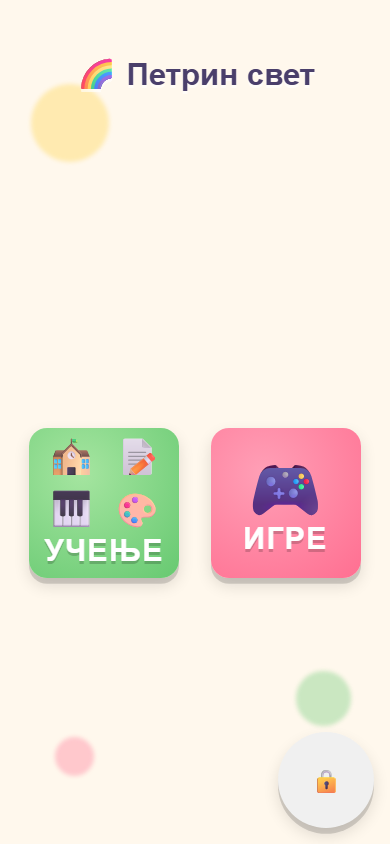
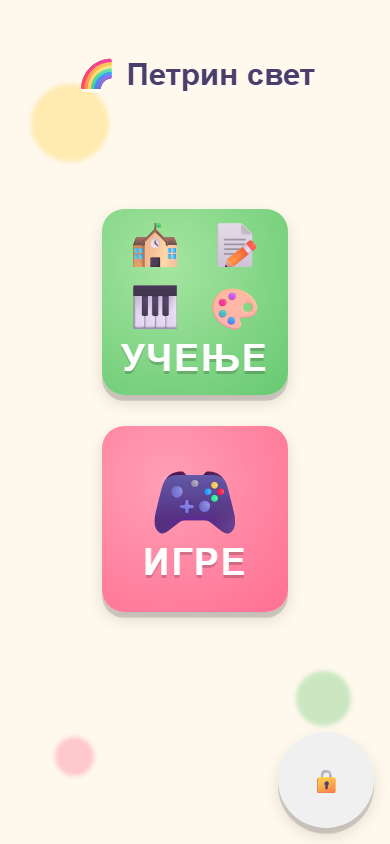
task 237 (V20): hub vertical rhythm - phone portrait stacks and enlarges the two group tiles, sub-hub grids clear their titles - VERIFY-first found phone portrait the only bad screen: a 335px (39.7%) empty band between the title and the two group tiles, which sat at their 150px clamp floor (clamp(15

Changed region(s): [[0.0615, 0.2464, 0.9231, 0.7393]]

diff --git a/tools/hub_smoke.js b/tools/hub_smoke.js
@@ -247,6 +247,112 @@ const ALL_LIVE_ROUTES = allHubRoutes().filter(r => !RETIRED_ROUTES.some(d => d.r
     !fs.readFileSync(path.join(pagesDir, p + '.html'), 'utf8').includes('class="back-btn ps-back"'));
   check('V7.1: adopted pages carry .ps-back on their back controls', notAdopted.length === 0, notAdopted.join(','));
 
+  /* V20 (spec §38): phone portrait is the hub screen with the dead space — the two
+   * group tiles used to sit at their 150px clamp floor (34vmin = 132.6 < 150) under
+   * a 22vh offset that fought the centring flex, so the child's entire navigation
+   * occupied 166 of 844px with a 335px (40%) void above it. These checks assert the
+   * LIVE geometry at real viewports (readiness-wait on the reflow, never a sleep):
+   * the cluster is stacked and enlarged on a phone, the void is small, the pair
+   * still clears the title and the parent lock on a SHORT phone (the 22vh cap is
+   * what buys that clearance — drop it and a 40vh cluster collides), the rule does
+   * not leak into landscape, and the sub-hub grids clear their titles by a real
+   * gap instead of the old flat 24vh (which left 116–136px of dead band while the
+   * learning grid scrolled off the bottom). */
+  const measureLanding = async (width, height) => {
+    await h.c.send('Emulation.setDeviceMetricsOverride', { width, height, deviceScaleFactor: 1, mobile: false });
+    await waitForActive('hub');
+    /* Readiness = the reflow settled (two identical reads of a sized tile with the
+     * landing active), never a fixed sleep and never the assertion itself. */
+    let prev = '', stable = 0;
+    for (let i = 0; i < 25 && stable < 2; i++) {
+      const now = await h.evalv(`(function(){
+        var t = document.querySelector('.hub-tile'); if (!t) return '';
+        var r = t.getBoundingClientRect();
+        return (document.querySelector('.screen.active')||{}).id + ':' + Math.round(r.top) + ':' + Math.round(r.height);
+      })()`);
+      const m = /^hub:-?\d+:(\d+)$/.exec(now);
+      stable = (m && +m[1] > 0 && now === prev) ? stable + 1 : 0;
+      prev = now;
+      if (stable < 2) await sleep(50);
+    }
+    return JSON.parse(await h.evalv(`JSON.stringify((function(){
+      var R = function(s){ var e = document.querySelector(s); if (!e) return null;
+        var r = e.getBoundingClientRect();
+        return { t: r.top, b: r.bottom, l: r.left, r: r.right, w: r.width, h: r.height }; };
+      var title = R('#hub-title'), tiles = R('.hub-tiles'), learn = R('.tile-learning'),
+          games = R('.tile-games'), lock = R('[data-go="game-parent"]');
+      var vh = innerHeight;
+      var bands = [tiles.t - title.b,
+                   lock ? lock.t - tiles.b : vh - tiles.b,
+                   lock ? vh - lock.b : 0];
+      return { vw: innerWidth, vh: vh, title: title, tiles: tiles, learn: learn,
+               games: games, lock: lock, biggestBand: Math.max.apply(null, bands) };
+    })())`));
+  };
+  const hits2 = (a, b) => Math.max(0, Math.min(a.r, b.r) - Math.max(a.l, b.l)) *
+                          Math.max(0, Math.min(a.b, b.b) - Math.max(a.t, b.t));
+
+  const V20P = await measureLanding(390, 844);
+  check('V20: phone portrait stacks the two group tiles into one tall cluster',
+    V20P.tiles.h >= 2 * V20P.learn.h - 8 && V20P.games.t > V20P.learn.b,
+    JSON.stringify({ tiles: Math.round(V20P.tiles.h), tile: Math.round(V20P.learn.h), gamesTop: Math.round(V20P.games.t) }));
+  check('V20: phone portrait tiles are enlarged past the old 150px clamp floor',
+    V20P.learn.w >= 180 && Math.abs(V20P.learn.w - V20P.games.w) < 1,
+    JSON.stringify({ learn: Math.round(V20P.learn.w), games: Math.round(V20P.games.w) }));
+  check('V20: phone portrait keeps a calm rhythm (no empty band above 30% of the screen)',
+    V20P.biggestBand <= 0.3 * V20P.vh,
+    'biggestBand=' + Math.round(V20P.biggestBand) + '/' + V20P.vh + ' (' + Math.round(1000 * V20P.biggestBand / V20P.vh) / 10 + '%)');
+
+  // The 22vh cap is a clearance guarantee, not a size preference: on a short phone
+  // the stacked pair must still fit between the title box and the 96px parent lock.
+  const V20S = await measureLanding(360, 640);
+  const clearOf = m => hits2(m.tiles, m.title) === 0 && hits2(m.tiles, m.lock) === 0 &&
+    m.tiles.t - m.title.b >= 8 && m.lock.t - m.tiles.b >= 8;
+  check('V20: the enlarged portrait cluster clears the title and the parent lock (390x844 and 360x640)',
+    clearOf(V20P) && clearOf(V20S),
+    JSON.stringify({ p390: [Math.round(V20P.tiles.t - V20P.title.b), Math.round(V20P.lock.t - V20P.tiles.b)],
+                     s360: [Math.round(V20S.tiles.t - V20S.title.b), Math.round(V20S.lock.t - V20S.tiles.b)],
+                     hit360: hits2(V20S.tiles, V20S.title) + '/' + hits2(V20S.tiles, V20S.lock) }));
+
+  // Sub-hub rhythm: the old flat `margin:24vh` left 116px (390x844) / 136px
+  // (820x1180) / 70px (1024x800) of dead band between the sub-hub title and the
+  // first row while the learning grid scrolled. The replacement tracks the title's
+  // own box, so the gap is a constant ~45px on every tall viewport.
+  const subGaps = [];
+  for (const [vw, vh] of [[390, 844], [820, 1180], [1024, 800]]) {
+    await h.c.send('Emulation.setDeviceMetricsOverride', { width: vw, height: vh, deviceScaleFactor: 1, mobile: false });
+    await waitForActive('hub');
+    await h.evalv(`window.goTo('hub-games')`);
+    let ready2 = false;
+    for (let i = 0; i < 25 && !ready2; i++) {
+      ready2 = await h.evalv(`(function(){
+        var a = document.querySelector('.screen.active'); if (!a || a.id !== 'hub-games') return false;
+        var g = a.querySelector('.hub-grid'); if (!g) return false;
+        var r = g.getBoundingClientRect();
+        return r.height > 0 && r.top > 0;
+      })()`);
+      if (!ready2) await sleep(50);
+    }
+    const gap = await h.evalv(`(function(){
+      var a = document.querySelector('.screen.active');
+      var g = a.querySelector('.hub-grid').getBoundingClientRect();
+      var t = a.querySelector('.hub-sub-title').getBoundingClientRect();
+      return Math.round(g.top - t.bottom);
+    })()`);
+    subGaps.push(vw + 'x' + vh + '=' + gap);
+  }
+  const gapsOk = subGaps.every(s => { const g = +s.split('=')[1]; return g >= 24 && g <= 64; });
+  check('V20: sub-hub grids clear their titles by a real gap at every tall viewport (24-64px)', gapsOk, subGaps.join(' '));
+  await h.evalv(`window.goTo('hub')`);
+  await waitForActive('hub');
+
+  // Scoping: the portrait block must not reach landscape. 844x390 keeps the
+  // side-by-side pair (and the task-105 games guard below keeps pinning the grid).
+  const V20L = await measureLanding(844, 390);
+  check('V20: the portrait rule does not leak into landscape (tiles stay side-by-side)',
+    Math.abs(V20L.learn.t - V20L.games.t) < 2 && V20L.learn.h <= 1.3 * V20L.learn.w && V20L.learn.w >= 96,
+    JSON.stringify({ learnTop: Math.round(V20L.learn.t), gamesTop: Math.round(V20L.games.t), w: Math.round(V20L.learn.w), h: Math.round(V20L.learn.h) }));
+
   // Regression guard (task 105): on a short landscape viewport the 24vh grid
   // margin + 2 columns put the last row below the fold, so the racing3d button
   // was only reachable after navigating into and back out of a game.

diff --git a/docs/index.html b/docs/index.html
@@ -116,7 +116,23 @@
   }
   /* sub-hub screens: grid scrolls from the top, clears the title + back button */
   #hub-games, #hub-learning{ justify-content:flex-start; }
-  #hub-games .hub-grid, #hub-learning .hub-grid{ margin: 24vh auto 0; }
+  /* V20 (§38): a flat 24vh left a 116px dead band under the sub-hub title on a
+     phone (136px on a tablet) while the learning grid scrolled off the bottom.
+     The title sits at top:6% but its box is vmin-sized, so the offset tracks
+     BOTH (6vh + the ~10vmin line box + a constant gap) instead of guessing. */
+  #hub-games .hub-grid, #hub-learning .hub-grid{ margin: calc(6vh + 10vmin + 40px) auto 0; }
+  /* V20 (§38) phone portrait: the two group tiles sat at their 150px clamp floor
+     (34vmin = 132.6 < 150) under a 22vh offset, leaving a 335px - 40% - void
+     between the title and the only two controls on the screen. Stack the pair and
+     size it from the height the phone has; 22vh is the cap that keeps short phones
+     clear of the title and the parent lock. Landscape/tablet keep the row. */
+  @media (orientation:portrait) and (max-width:600px){
+    .hub-tiles{ flex-direction:column; margin:0 auto; }
+    .hub-tile{ width:clamp(150px, 22vh, 240px); height:clamp(150px, 22vh, 240px); }
+    .hub-tile .tile-emoji{ font-size: clamp(56px, 21vmin, 160px); }
+    .hub-tile .tile-emojis{ font-size: clamp(30px, 11.5vmin, 88px); }
+    .hub-tile .tile-label{ font-size: clamp(30px, 9.5vmin, 72px); }
+  }
   /* Short viewports (landscape phones): a 24vh top margin plus only 2 columns
      pushed the last row below the fold, which hid the racing3d button entirely
      (measured: bottom=639 in a 390px viewport). Three narrower columns fit. */

diff --git a/game/index.html b/game/index.html
@@ -116,7 +116,23 @@
   }
   /* sub-hub screens: grid scrolls from the top, clears the title + back button */
   #hub-games, #hub-learning{ justify-content:flex-start; }
-  #hub-games .hub-grid, #hub-learning .hub-grid{ margin: 24vh auto 0; }
+  /* V20 (§38): a flat 24vh left a 116px dead band under the sub-hub title on a
+     phone (136px on a tablet) while the learning grid scrolled off the bottom.
+     The title sits at top:6% but its box is vmin-sized, so the offset tracks
+     BOTH (6vh + the ~10vmin line box + a constant gap) instead of guessing. */
+  #hub-games .hub-grid, #hub-learning .hub-grid{ margin: calc(6vh + 10vmin + 40px) auto 0; }
+  /* V20 (§38) phone portrait: the two group tiles sat at their 150px clamp floor
+     (34vmin = 132.6 < 150) under a 22vh offset, leaving a 335px - 40% - void
+     between the title and the only two controls on the screen. Stack the pair and
+     size it from the height the phone has; 22vh is the cap that keeps short phones
+     clear of the title and the parent lock. Landscape/tablet keep the row. */
+  @media (orientation:portrait) and (max-width:600px){
+    .hub-tiles{ flex-direction:column; margin:0 auto; }
+    .hub-tile{ width:clamp(150px, 22vh, 240px); height:clamp(150px, 22vh, 240px); }
+    .hub-tile .tile-emoji{ font-size: clamp(56px, 21vmin, 160px); }
+    .hub-tile .tile-emojis{ font-size: clamp(30px, 11.5vmin, 88px); }
+    .hub-tile .tile-label{ font-size: clamp(30px, 9.5vmin, 72px); }
+  }
   /* Short viewports (landscape phones): a 24vh top margin plus only 2 columns
      pushed the last row below the fold, which hid the racing3d button entirely
      (measured: bottom=639 in a 390px viewport). Three narrower columns fit. */

diff --git a/PROJECT_TASKS.md b/PROJECT_TASKS.md
@@ -17,6 +17,11 @@ Important: The AI assistant and any contributor must read this file first when s
 
 ## Active tasks (NEW / IN PROGRESS)
 
+- 237. DONE — Visual/UX plan **V20** (Phase 9–20 — Page-specific, spec §38): **Hub — vertical rhythm, enlarge/relocate the useful activity clusters, preserve calmness, keep parent/technical utilities out of the child hub.** "Do not fill space with decorative noise." VERIFY-first, then smallest correct fix + non-vacuous guards. (Started 2026-10-12, DONE 2026-10-12, Ponytail Lazy Dev.)
+    - **VERIFY-first:** probed the live hub at 390×844 / 844×390 / 820×1180 / 1024×800. **Phone portrait was the only bad screen** — exactly what §38 says: a **335px (39.7%) empty band** between `#hub-title` (bottom 93) and `.hub-tiles` (top 428), with the two group tiles stuck at their **150px clamp floor** (`game/index.html:97` `clamp(150px,34vmin,320px)` → 34vmin = 132.6 < 150) under a `22vh` offset (`index.html:94`) that fought `.screen{justify-content:center}`; tablet/landscape landings were already balanced (title→tiles vs tiles→bottom ratios 1.15–1.16) and on-curve, so they were left alone. Sub-hubs wasted a **116px** title→grid band at 390×844 and 136px at 820×1180 because `index.html:119` hard-fixed `margin:24vh`, while the learning grid scrolled (scrollH 999 vs 844) and the games grid overflowed even at 1024×800 (192px top margin, scrollH 848 vs 800). **§38's second half needed no fix**: R12 already keeps every parent/technical utility out of the child hub (hub_smoke static guard + landing probe: exactly 2 group tiles + 1 parent lock, no technical ids).
+    - **Fix:** `game/index.html` only, ~8 lines of CSS, no HTML/JS changes, nothing decorative added. (1) **One portrait-only block** (`@media (orientation:portrait) and (max-width:600px)`): the two group tiles stack (`flex-direction:column; margin:0 auto`) and are sized from the height the phone has (`clamp(150px, 22vh, 240px)` — **22vh is the clearance cap**, not a size preference, so short phones stay clear of the title and the 96px parent lock), with the emoji/label fonts scaled to the new tile so the enlarged tiles don't read as empty boxes. Result at 390×844: tile **150→186px**, cluster **166→418px tall**, biggest void **335px→116px (13.8%)**, title/lock clearance 116px/105px (68px/42px at 360×640). (2) The sub-hub top margin `24vh` → **`calc(6vh + 10vmin + 40px)`** — the title sits at `top:6%` but its box is vmin-sized, so the offset now tracks both instead of guessing: uniform **43/46/46px** title→grid gaps at 390×844 / 820×1180 / 1024×800 (games grid no longer overflows at 1024×800; learning scrollH 999→926). The short-landscape `max-height:560px` block is untouched (task-105 guard still green).
+    - **Guards:** `hub_smoke` → **30** checks (was 24) — +6 V20, each measuring the LIVE geometry with a readiness-wait on the reflow (two identical sized reads, never a fixed sleep): portrait tiles are stacked into one tall cluster; portrait tiles are enlarged past the old 150px floor; portrait keeps a calm rhythm (no empty band > 30% of the screen); the enlarged cluster clears the title AND the parent lock at **390×844 and 360×640** (2D box intersection + ≥8px vertical clearance — this is what the 22vh cap buys); the portrait rule does not leak into landscape (844×390 stays side-by-side); sub-hub grids clear their titles by 24–64px at all three tall viewports. **Each negative-tested** via mutation from a pre-mutation temp copy, each producing exactly the targeted red(s), each restored with a hash match (never `git checkout/restore`): whole portrait block removed → 3 red (stacked/enlarged/rhythm, band 336px = the pre-fix measurement reproduced); tile cap `22vh`→`12vh` → 1 red (enlarged); sub-hub `calc()`→`24vh` → 1 red (gap guard, 116/136/70 = the pre-fix measurements reproduced); media condition→`@media all` → 1 red (landscape leak, tiles stacked at 844×390); tile cap `22vh`→`40vh` → 1 red (clearance, overlap only on the 360×640 clause). **Validation:** `hub_smoke` 30/30; `check_fast` 7/7 (and proven non-vacuous: it FAILED on the stale docs/manifest mid-task and named the fix command); axe clean (0 violations) on `/index.html`; `short_landscape_audit` 0 FAIL (hub OK, only the pre-existing advisory WARNs elsewhere); offline E2E **23 games green** (hub tiles still tappable); `validate_offline` 10/10. Screenshots refreshed (`--review=Screenshot_Review --pages=hub --task=237`) — **only `hub_phone-portrait.png` changed; the landscape/tablet PNGs are byte-identical**, which is the scoping proof. **Visual self-review pending (model can't read images — recommend MiMo V2.5 Free on the refreshed `hub_phone-portrait.png`).** Next down the list: V21 (Semantic motion pass).
+
 - 236. DONE — Visual/UX plan **V19** (Phase 9–20 — Page-specific, spec §37 / §43): **Parent visual system — grouped cards, readable labels, progress summaries, expandable details, restrained colour.** "Parent utility can be more information-dense than child UI, but never cryptic." Avoid dense tables, tiny metadata, technical IDs, child-facing toy shadows. VERIFY-first, then smallest correct fix + non-vacuous guards. (Started 2026-10-11, DONE 2026-10-11, Ponytail Lazy Dev.)
     - **VERIFY-first:** probed the live page at 390×844 / 844×390 / 1024×800 — the parent card carried a hard child-facing toy shadow (`rgba(0,0,0,.15) 0px 8px 0px 0px`), the meta pills / progress panel / diagnostics all sat at **11px** with label `opacity:.75` (tiny, dimmed metadata), everything lived in **one undifferentiated card** (no grouping), and the progress values were **comma-joined run-on lists** of titleFor names (no summary). No raw technical ids leaked to the face (`rawIds:[]` — the scope URL already stayed behind the diagnostics disclosure), so §37's technical-id half needed no fix.
     - **Fix:** `game/pages/parent.html` now reads as **three labelled sections** on one soft-shadow card (shared token `--shadow-card`: 12/28 blur, no hard offset): «Статус», «📊 Напредак», «Радње» — flat cream panels with a hairline border, no stacked toy shadows, no `<table>`. Status (Веза / Верзија / Офлајн копија) and progress (Коришћено / Вежбано) are **label→value rows at ≥13px** (`clamp(13px,2.1vmin,16px)`, labels `--plum-soft`, opacity 1 — never dimmed). **Progress is summarised**: «N од 23» up front (count from the registry, Serbian), the game names behind a **closed `<details>`** disclosure; the diagnostics disclosure stays but becomes readable (13px, white block). The «Верзија» / «Офлајн копија» words moved OUT of the value cells into the row keys, so values hold only the fact (`2.0.0`, `спремна`/`није преузета`). Back control adopts the shared **`.ps-back`** chrome (§43) — just `position:fixed` layout stays page-local. **Scroll/centring**: `#app` is now a COLUMN flex with `margin:auto` on the card, so it centres when it fits and the auto margins resolve to zero when it overflows (a row/cross-axis centred child that overflows clips its TOP and stays unreachable even in a scroll container) — this the old `parent-meta`-era card could avoid by being shorter; V19's taller card exposed it. `window.__parentProgress` test hook added (mirrors `__parentGate`) so a smoke can render the summary without reloading.

diff --git a/VISUAL_UX_IMPLEMENTATION_PLAN.md b/VISUAL_UX_IMPLEMENTATION_PLAN.md
@@ -165,7 +165,7 @@ Ordered by the spec's own priority matrix (§55) and Appendix E. Each item is ta
 | **V17** | Shapes: subtle play mat, better shape material, clear selected state. Do not over-design; spatial relationship stays the hero. | **DONE** (2026-10-11, task 234) - VERIFY-first probed 390×844 / 844×390 / 1024×800: `mat:false` at every viewport (no play mat at all), pieces were flat (`background-image:none`, solid colour, only a base lip shadow), and `.piece.dragging` had no picked-up state. `.mat` is now a subtle play mat (radius 30px, 2px soft border, cream gradient, inset shadow, `pointer-events:none`, behind everything - purely visual, never competes with the spatial question); pieces gained subtle material (top-left sheen gradient over inset internal shading + base lip, per-shape colour preserved via `style.backgroundColor` so the CSS gradient layers on top); a picked-up piece has a clear selected state (existing lift + Petrin Glow + raised shadow). Slots, tier system and keyboard flow untouched. `shapes_smoke` 20→25 (+4 guards, each negative-tested by CSS/markup mutation and restored from a hash-checked copy); axe clean; `short_landscape_audit` 0 FAIL (pre-existing advisory WARN kept); offline E2E green; `check_fast` 7/7; screenshots refreshed. |
 | **V18** | Phonics: letter glow, speaker cue, subtle object highlight, immediate success feedback. Never text-heavy; no alphabet wall. | **DONE** (2026-10-11, task 235) — VERIFY-first probed 390×844 / 844×390 / 1024×800: the letter was a bare floating glyph, the only repeat control was a tiny top-right icon, the choices were flat #fff, no visible success reaction. `#phonics-letter` is now an **active tile** (cream gradient, halo, radius 24px, `role="button"`) that itself replays the sound and **blooms while it plays** (`.phonics-letter-live` = Petrin Glow + halo) and **green-settles on a hit** (`.phonics-good`). A new 🔊 **speaker cue** between letter and objects pulses while speaking. Both `.phonics-choice` objects are **gradient tiles** that **light once at round start** (`.phonics-glow-all`, 750ms). A correct tap gives immediate success feedback: green choice ring + green letter + «Браво!». Desktop sizing is now `min-width:800px) and (min-height:600px)` and a dedicated `(max-height:599px)` block keeps letter 128px + cue + choices 128px inside the 844×390 fold. Reduced-motion extended. `phonics_smoke` 19→27 (+8 guards, each negative-tested; two tightened after vacuous first versions — the bloom/green rule regexes now require selector+`box-shadow`, and the fold guard now pins the 128px short-block sizes because flex-shrink hid the old 180px glyph clip). axe clean; `short_landscape_audit` 0 FAIL (pre-existing advisory WARN kept); offline E2E green; `check_fast` 7/7; screenshots refreshed. |
 | **V19** | Parent visual system: grouped cards, readable labels, progress summaries, expandable details, restrained colour. Never a developer dashboard, never child toy shadows, never tiny dense metrics. May begin after V2. | **DONE** (2026-10-11, task 236) — VERIFY-first probed 390×844 / 844×390 / 1024×800: a hard child-facing toy shadow (`0px 8px 0px`), meta pills/progress/diagnostics at 11px with `opacity:.75`, one undifferentiated card, run-on comma progress lists; no raw technical ids in the face (already behind diagnostics). `parent.html` now has **three labelled sections** on one soft-shadow card (token `--shadow-card`) — «Статус», «Напредак», «Радње» — flat panels with a hairline border, labels/values ≥13px never dimmed, progress summarised «N од M» with names behind a closed disclosure, diagnostics readable behind its own disclosure, no `<table>`. The «Верзија»/«Офлајн копија» words became row keys so value cells hold only facts. Back control adopts shared `.ps-back` (§43). `#app` switched to a COLUMN flex with `margin:auto` so the card centres when it fits and top-aligns when it overflows (cross-axis centring clips the top). `parent_smoke` 31→40 (+9 guards, each negative-tested = exactly 1 targeted red, restores hash-matched; the small-viewport guard now normalises `scrollTop=0` before cardTop). `hub_smoke` BACK_ADOPTED += parent. axe clean; `short_landscape_audit` 0 FAIL (advisory WARN kept); offline E2E 23 games + parent green; `check_fast` 7/7; screenshots refreshed. |
-| **V20** | Hub: improve vertical rhythm, enlarge/relocate useful clusters, preserve calmness, keep parent/technical utilities out of the child hub. Do not fill space with decorative noise. | **VERIFY** — spec calls the hub one of the strongest screens. |
+| **V20** | Hub: improve vertical rhythm, enlarge/relocate useful clusters, preserve calmness, keep parent/technical utilities out of the child hub. Do not fill space with decorative noise. | **DONE** (2026-10-12, task 237) — VERIFY probe at 390x844 / 844x390 / 820x1180 / 1024x800: **phone portrait was the only bad screen** — a **335px (39.7%) empty band** between `#hub-title` and `.hub-tiles`, the two group tiles stuck at their **150px clamp floor** (`clamp(150px,34vmin,320px)` → 34vmin = 132.6 < 150) under a `22vh` offset (`index.html:94`) that fought `.screen{justify-content:center}`; tablet/landscape already balanced (ratios 1.15–1.16, on-curve) → untouched. Sub-hubs: a flat `margin:24vh` (`index.html:119`) left a 116px/136px title→grid band at 390x844/820x1180 while the learning grid scrolled (scrollH 999 vs 844) and the games grid overflowed even at 1024x800. §38's second half needed **no fix** — R12 already keeps every parent/technical utility out of the child hub. Fix in `game/index.html` (CSS only, nothing decorative added): one **portrait-only media block** (`orientation:portrait and max-width:600px`) stacks the two group tiles and sizes them from the phone's height (`clamp(150px, 22vh, 240px)` — the 22vh **cap is the clearance guarantee** against the title and the 96px parent lock) with emoji/label fonts scaled to the new tile; the sub-hub margin became **`calc(6vh + 10vmin + 40px)`**, which tracks the title's own box (6% vh top + vmin line box) instead of guessing. Result at 390x844: tile 150→186px, cluster 166→418px tall, biggest void **335→116px (13.8%)**, title/lock clearance 116/105px (68/42px at 360x640); sub-hub gaps 116/136/70 → **43/46/46px**; games no longer overflows at 1024x800. `hub_smoke` 24→30 (+6 guards, each negative-tested from a temp copy = exactly the targeted red(s), hash-verified restores; whole-block removal reproduced the pre-fix 336px band and 116/136/70 gaps as reds). `check_fast` 7/7; axe clean; `short_landscape_audit` 0 FAIL (hub OK); offline E2E 23 games green; **only `hub_phone-portrait.png` changed — landscape/tablet PNGs byte-identical** (scoping proof). |
 
 ### Phase 21–23 — Audit and baseline
 

diff --git a/CONTRIBUTING.md b/CONTRIBUTING.md
@@ -62,7 +62,7 @@ Consequences for contributors:
 
 ## Task lifecycle
 
-- **Task 236 (Visual/UX V19 — Parent visual system: grouped cards, readable labels, progress summaries, expandable details, restrained colour, spec §37/§43) is DONE (2026-10-11); task 235 (Visual/UX V18 — Phonics letter glow + speaker cue + choice object highlight + immediate success feedback, spec §36/§42.15) is DONE (2026-10-11); task 234 (Visual/UX V17 — Shapes play mat + material + selection, spec §35/§42.19) is DONE (2026-10-11); task 233 (Visual/UX V16 — Sequencing gentle story tray, spec §34/§42.18) is DONE (2026-10-11); task 232 (Visual/UX V15 — Sorting material upgrade, spec §33/§42.20) is DONE (2026-10-11); task 231 (Visual/UX V14 — Coloring header + Piano shell geometry, spec §32/§42.6/§42.16) is DONE (2026-10-11); task 230 (Visual/UX V13 — Classroom hierarchy, spec §31/§42.5) is DONE (2026-10-11); task 229 (Visual/UX V12 — Animal Memory card refinement, spec §30/§42.3) is DONE (2026-10-10); task 228 (Visual/UX V11 — counting refinement) is DONE (2026-10-10); task 227 (Visual/UX V10 — Rhythm pads as drums) is DONE (2026-10-10); task 226 (Visual/UX V9 — Maze cozy-garden elevation) is DONE (2026-10-10); task 225 (Visual/UX V8.1 — animal content composition, "V8 Animals") is DONE (2026-10-10); task 224 (Visual/UX V7.1 — tactile component layer + `.ps-back` adoption) is DONE (2026-10-10); task 223 (Visual/UX V6.2 — apply the Petrin Glow to the six attention states) is DONE (2026-10-09); task 222 (Visual/UX V6.1 — Petrin Glow) is DONE (2026-10-09); task 221 (Visual/UX V5.1 — learning-stage grammar) is DONE (2026-10-09); task 220 (Visual/UX V4.1 — Adventure HUD unification) is DONE (2026-10-09); task 219 (Visual/UX V3.2 — 4 short-landscape FAIL fixes, audit at 0 FAIL) is DONE (2026-10-09); task 218 (terminal plan-status line `tools/plan_progress.js`) is DONE (2026-10-09); task 217 (Visual/UX V3.1 — 844×390 short-landscape audit) is DONE (2026-10-09); task 216 (V0–V2) is DONE (2026-10-08).**
+- **Task 237 (Visual/UX V20 — Hub vertical rhythm + activity-cluster size, spec §38) is DONE (2026-10-12); task 236 (Visual/UX V19 — Parent visual system: grouped cards, readable labels, progress summaries, expandable details, restrained colour, spec §37/§43) is DONE (2026-10-11); task 235 (Visual/UX V18 — Phonics letter glow + speaker cue + choice object highlight + immediate success feedback, spec §36/§42.15) is DONE (2026-10-11); task 234 (Visual/UX V17 — Shapes play mat + material + selection, spec §35/§42.19) is DONE (2026-10-11); task 233 (Visual/UX V16 — Sequencing gentle story tray, spec §34/§42.18) is DONE (2026-10-11); task 232 (Visual/UX V15 — Sorting material upgrade, spec §33/§42.20) is DONE (2026-10-11); task 231 (Visual/UX V14 — Coloring header + Piano shell geometry, spec §32/§42.6/§42.16) is DONE (2026-10-11); task 230 (Visual/UX V13 — Classroom hierarchy, spec §31/§42.5) is DONE (2026-10-11); task 229 (Visual/UX V12 — Animal Memory card refinement, spec §30/§42.3) is DONE (2026-10-10); task 228 (Visual/UX V11 — counting refinement) is DONE (2026-10-10); task 227 (Visual/UX V10 — Rhythm pads as drums) is DONE (2026-10-10); task 226 (Visual/UX V9 — Maze cozy-garden elevation) is DONE (2026-10-10); task 225 (Visual/UX V8.1 — animal content composition, "V8 Animals") is DONE (2026-10-10); task 224 (Visual/UX V7.1 — tactile component layer + `.ps-back` adoption) is DONE (2026-10-10); task 223 (Visual/UX V6.2 — apply the Petrin Glow to the six attention states) is DONE (2026-10-09); task 222 (Visual/UX V6.1 — Petrin Glow) is DONE (2026-10-09); task 221 (Visual/UX V5.1 — learning-stage grammar) is DONE (2026-10-09); task 220 (Visual/UX V4.1 — Adventure HUD unification) is DONE (2026-10-09); task 219 (Visual/UX V3.2 — 4 short-landscape FAIL fixes, audit at 0 FAIL) is DONE (2026-10-09); task 218 (terminal plan-status line `tools/plan_progress.js`) is DONE (2026-10-09); task 217 (Visual/UX V3.1 — 844×390 short-landscape audit) is DONE (2026-10-09); task 216 (V0–V2) is DONE (2026-10-08).**
 
 - **Before starting any new task, check git/CI status** (`git status --short`, `gh run list`). If anything is failing or the tree is dirty in a way you did not create, report it and propose fixing it first — never start a new task on a red pipeline or a stale tree (task 214).
 - Mark the task **IN PROGRESS** in `PROJECT_TASKS.md` when starting and **DONE** with a dated note (who, what, why) when finished.

diff --git a/README.md b/README.md
@@ -6,6 +6,8 @@
 
 ## Current status (2026-10-11)
 
+- **Task 237 DONE (2026-10-12):** Phase 9-20 - V20 (Hub vertical rhythm + activity-cluster size, spec 38) - "Do not fill space with decorative noise." VERIFY-first probed 390x844 / 844x390 / 820x1180 / 1024x800: **phone portrait was the only bad screen** - a 335px (39.7%) empty band between the title and the two group tiles, which sat at their **150px clamp floor** (`clamp(150px,34vmin,320px)` -> 34vmin=132.6<150) under a `22vh` offset that fought the centring flex; sub-hubs wasted a 116-136px title->grid band on a fixed `margin:24vh` while the learning grid scrolled. R12 already kept every parent/technical utility out of the child hub (no fix needed). Fix in `game/index.html` (CSS only): **one portrait-only media block** stacks the two group tiles and sizes them from the phone's height (`clamp(150px,22vh,240px)` - the 22vh cap is the clearance guarantee against the title and the 96px parent lock) with the emoji/label fonts scaled to match; the sub-hub top margin became **`calc(6vh + 10vmin + 40px)`**, which tracks the title's own box instead of guessing with vh. Result at 390x844: tile 150->186px, cluster 166->418px tall, biggest void 335->116px (13.8%); sub-hub title->grid gaps 116/136/70 -> 43/46/46px; landscape and tablet untouched (the refreshed landscape/tablet screenshots are byte-identical). `hub_smoke` 24->30 checks (+6, each negative-tested by mutation from a temp copy = exactly the targeted red(s), hash-verified restores); `check_fast` 7/7; axe clean; `short_landscape_audit` 0 FAIL (hub OK); offline E2E 23 games green; `hub_phone-portrait.png` refreshed. (Ponytail Lazy Dev)
+
 - **Task 236 DONE (2026-10-11):** Phase 9-20 - V19 (Parent visual system, spec 37/43) - grouped cards, readable labels, progress summaries, expandable details, restrained colour; never a developer dashboard, never toy shadows, never tiny dense metrics. VERIFY-first probed 390x844 / 844x390 / 1024x800: hard child toy shadow (`0px 8px 0px`), meta/progress/diagnostics at 11px with `opacity:.75`, one undifferentiated card, run-on comma progress lists. Fix in `parent.html`: **three labelled sections** («Статус», «Напредак», «Радње») on one soft-shadow card with flat panels, no tables; status/progress as **label->value rows >=13px**, labels never dimmed; **progress summarised as «N од 23»** with names behind a closed disclosure; diagnostics readable behind its own disclosure; back controls adopt the shared `.ps-back`. `#app` is now a column flex with `margin:auto` so the card centres when it fits and top-anchors when it overflows. `parent_smoke` 31->40 (+9, each negative-tested by mutation, exactly 1 targeted red, hash-verified restores); `hub_smoke` BACK_ADOPTED += parent; axe clean; audit 0 FAIL (parent keeps its pre-existing advisory WARN); offline E2E 23 games + parent green; `check_fast` 7/7; parent screenshots refreshed. (Ponytail Lazy Dev)
 
 - **Task 235 DONE (2026-10-11):** Phase 9-20 - V18 (Phonics letter glow + speaker cue + object highlight + success feedback, spec 36/42.15) - "Add only a little life … the child should get: Ово је слово. Чујем га. Која слика почиње њиме? Never text-heavy; no alphabet wall." VERIFY-first probed 390x844 / 844x390 / 1024x800: the letter was a bare floating glyph, the only repeat control was a tiny top-right icon far from the letter, the choices were flat #fff, no visible success reaction. Fix: **active letter tile** (cream gradient, halo, radius 24px) that is itself clickable/Enter/Space and replays the sound, **blooms** while its sound plays and **green-settles** on a correct tap; a new 🔊 **speaker cue** between letter and objects pulses while speaking; both **object choices are gradient tiles** that light once at round start; a correct tap gives immediate success feedback (green ring + green letter + Браво!). Desktop sizing is now height-guarded and a dedicated 844x390 block keeps letter 128px + cue + choices 128px inside the fold. `phonics_smoke` 19->27 checks (+8), each negative-tested by CSS/JS mutation and restored from a hash-checked copy; `check_fast` 7/7; axe clean; audit 0 FAIL (phonics keeps its pre-existing advisory WARN); offline E2E green; phonics screenshots refreshed. (Ponytail Lazy Dev)

diff --git a/HANDOVER_PROMPT.md b/HANDOVER_PROMPT.md
@@ -6,7 +6,14 @@ Purpose
 
 This file summarizes the current workspace, conventions, and project state so the next session can continue without friction. Read this before making changes. It is refreshed at the end of every session.
 
-## Current session — Task 236 (V19 Parent visual system) DONE — 2026-10-11
+## Current session — Task 237 (V20 Hub vertical rhythm) DONE — 2026-10-12
+
+**User instruction (2026-10-12):** task 237 = visual/UX plan V20 (spec §38, row V20) — hub vertical rhythm, enlarge/relocate useful clusters, calmness, no parent/technical utilities in the child hub, no decorative noise. Work VERIFY-first exactly like V13–V19: probe the live hub at 390×844 / 844×390 / 820×1180 / 1024×800, report violations with file:line evidence, propose the smallest fix + non-vacuous guards, and do not write game code before the user has seen the findings and the proposal. ("ok do it" = approval to implement.)
+
+- **Task 237 DONE:** Phase 9–20 — V20 (spec §38). **Hub vertical rhythm + activity-cluster size.** VERIFY-first probed all four viewports: **phone portrait was the only bad screen** — a **335px (39.7%) empty band** between `#hub-title` and `.hub-tiles`, with the two group tiles stuck at their **150px clamp floor** (`clamp(150px,34vmin,320px)` → 34vmin = 132.6 < 150) under a `22vh` offset that fought `.screen{justify-content:center}`; tablet/landscape already balanced (ratios 1.15–1.16, on-curve) → untouched. Sub-hubs: flat `margin:24vh` left a 116/136px title→grid band (390×844/820×1180) while the learning grid scrolled and the games grid overflowed even at 1024×800. §38's second half needed **no fix** (R12 already keeps parent/technical utilities out of the child hub). **Fix (`game/index.html`, CSS only):** one **portrait-only block** (`orientation:portrait and max-width:600px`) stacks the two group tiles and sizes them from the phone's height (`clamp(150px, 22vh, 240px)` — **the 22vh cap is the clearance guarantee** against the title and the 96px parent lock, which is why a 40vh mutation collides on a 360×640 phone) with emoji/label fonts scaled to the new tile; the sub-hub margin became **`calc(6vh + 10vmin + 40px)`** (tracks the title's 6% vh top + vmin line box instead of guessing). At 390×844: tile 150→186px, cluster 166→418px tall, biggest void 335→**116px (13.8%)**, clearance 116/105px (68/42px at 360×640); sub-hub gaps 116/136/70 → **43/46/46px**. **Guards:** `hub_smoke` **24→30** (+6, LIVE geometry with a two-read settle wait, never a fixed sleep). **Each negative-tested** from a pre-mutation temp copy (never git restore), each = exactly the targeted red(s), each hash-verified restored: block removed → 3 red (reproduced the pre-fix 336px band); `22vh`→`12vh` → 1 red (enlarged); `calc()`→`24vh` → 1 red (reproduced 116/136/70); condition→`@media all` → 1 red (landscape leak); `22vh`→`40vh` → 1 red (clearance, 360×640 only). **Validation:** `hub_smoke` 30/30; `check_fast` 7/7 (proven non-vacuous: it FAILED on the stale docs/manifest mid-task and named the fix command); axe clean; `short_landscape_audit` 0 FAIL (hub OK); offline E2E 23 games green; `validate_offline` 10/10; **only `hub_phone-portrait.png` refreshed — landscape/tablet PNGs byte-identical** (scoping proof).
+- **Next task: V21 — Semantic motion pass** (spec §39, plan row V21, currently VERIFY — 14 files contain `@keyframes`). Same VERIFY-first rhythm.
+
+## Earlier session — Task 236 (V19 Parent visual system) DONE — 2026-10-11
 
 **User instruction (2026-10-11):** continue the visual/UX plan tasks one by one; at the end of each task update all project docs, sync `game/`→`docs/`, refresh the affected review screenshots, and commit+push with a CI check. Do not stop between tasks — only stop for a genuine decision with no recommendation. (Standing approval carries; make recommended decisions without asking.)
 

diff --git a/resources/General_reviews/Screenshot_Review/TABLE_OF_CONTENT.md b/resources/General_reviews/Screenshot_Review/TABLE_OF_CONTENT.md
@@ -1,6 +1,6 @@
 # Преглед екрана (UI review)
 
-- Генерисано / Generated: 2026-10-11T12:12:23.829Z
+- Генерисано / Generated: 2026-10-12T00:15:39.723Z
 - Поново направи / Regenerate: `node tools/screenshot.js --review=Screenshot_Review`
 - Освежи само промењену страну / Refresh only a changed page: `node tools/screenshot.js --review=Screenshot_Review --pages=<id> --task=<id>`
 
@@ -48,10 +48,10 @@
 | `explorer_phone-portrait.png` | Мала истраживачица | `/pages/explorer.html` | 390×844 | портрет | — | 09.10.2026. 14:32:06 | 220 |
 | `explorer_tablet-landscape.png` | Мала истраживачица | `/pages/explorer.html` | 1180×820 | пејзаж | — | 09.10.2026. 14:32:06 | 220 |
 | `explorer_tablet-portrait.png` | Мала истраживачица | `/pages/explorer.html` | 820×1180 | портрет | — | 09.10.2026. 14:32:06 | 220 |
-| `hub_phone-landscape.png` | Петрин свет — почетна | `/index.html` | 844×390 | пејзаж | — | 07.10.2026. 13:09:03 | 213 |
-| `hub_phone-portrait.png` | Петрин свет — почетна | `/index.html` | 390×844 | портрет | — | 07.10.2026. 13:09:03 | 213 |
-| `hub_tablet-landscape.png` | Петрин свет — почетна | `/index.html` | 1180×820 | пејзаж | — | 07.10.2026. 13:09:03 | 213 |
-| `hub_tablet-portrait.png` | Петрин свет — почетна | `/index.html` | 820×1180 | портрет | — | 07.10.2026. 13:09:03 | 213 |
+| `hub_phone-landscape.png` | Петрин свет — почетна | `/index.html` | 844×390 | пејзаж | — | 12.10.2026. 02:15:39 | 237 |
+| `hub_phone-portrait.png` | Петрин свет — почетна | `/index.html` | 390×844 | портрет | — | 12.10.2026. 02:15:39 | 237 |
+| `hub_tablet-landscape.png` | Петрин свет — почетна | `/index.html` | 1180×820 | пејзаж | — | 12.10.2026. 02:15:39 | 237 |
+| `hub_tablet-portrait.png` | Петрин свет — почетна | `/index.html` | 820×1180 | портрет | — | 12.10.2026. 02:15:39 | 237 |
 | `matching_game_phone-landscape.png` | Слагалица бомбона | `/pages/matching_game.html` | 844×390 | пејзаж | — | 09.10.2026. 13:41:25 | 219 |
 | `matching_game_phone-portrait.png` | Слагалица бомбона | `/pages/matching_game.html` | 390×844 | портрет | — | 09.10.2026. 13:41:25 | 219 |
 | `matching_game_tablet-landscape.png` | Слагалица бомбона | `/pages/matching_game.html` | 1180×820 | пејзаж | — | 09.10.2026. 13:41:25 | 219 |

diff --git a/resources/General_reviews/SHORT_LANDSCAPE_AUDIT.md b/resources/General_reviews/SHORT_LANDSCAPE_AUDIT.md
@@ -1,6 +1,6 @@
 # Short-landscape audit — 844×390 (spec §11)
 
-Generated: 2026-10-11 12:07 UTC · task 217 (V3.1) · `node tools/short_landscape_audit.js`
+Generated: 2026-10-12 00:14 UTC · task 217 (V3.1) · `node tools/short_landscape_audit.js`
 
 Every surface (hub + 24 registry apps) measured at **844×390** against the
 Master Visual/UX plan §11 checklist: header budget 56–72 px, board-first,
